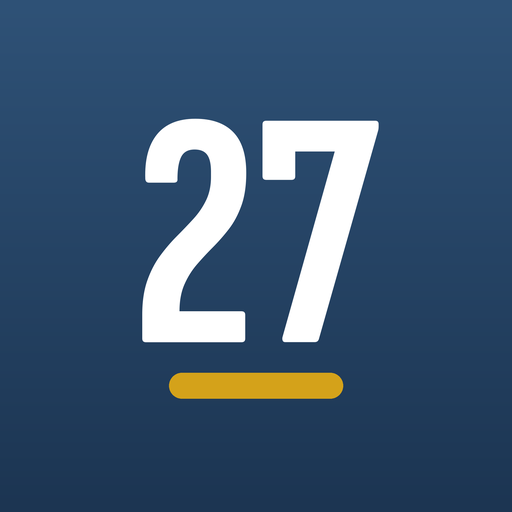
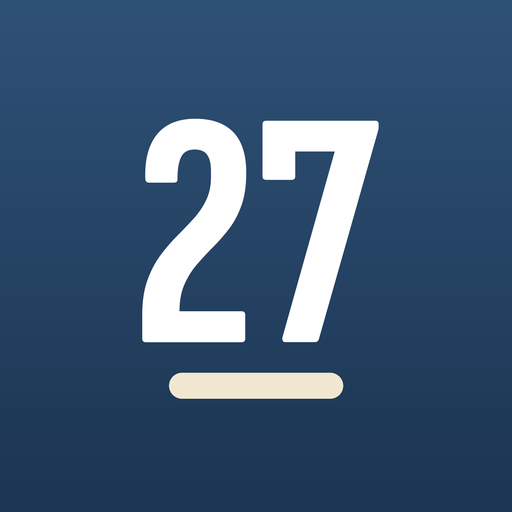
Areia no azul escuro, mostarda no claro e caixa de construção sem amarelo
Claude-Session: https://claude.ai/code/session_01CtpPfmuhznSEQ2vo3kaDov

Changed region(s): [[0.3125, 0.7188, 0.6875, 0.7812]]

diff --git a/index.html b/index.html
@@ -6,7 +6,7 @@
 <title>Meu 2027</title>
 <meta name="description" content="Meu 2027: planejamento com o Claude em 10 dias.">
 <meta name="theme-color" content="#2F5277">
[2 lines of base64/hex data omitted]
 <link rel="apple-touch-icon" href="apple-touch-icon.png">
 <link rel="icon" type="image/png" sizes="32x32" href="favicon-32.png">
 <link rel="icon" href="favicon.ico" sizes="any">
@@ -15,12 +15,12 @@
 <link rel="preconnect" href="https://fonts.googleapis.com">
 <link rel="preconnect" href="https://fonts.gstatic.com" crossorigin>
 <link rel="stylesheet" href="https://fonts.googleapis.com/css2?family=Sofia+Sans+Extra+Condensed:wght@500;600;700&family=Sofia+Sans+Condensed:wght@400;500;600&family=Sofia+Sans:ital,wght@0,400;0,500;0,600;1,400&display=swap">
-<link rel="stylesheet" href="estilo.css?v=20261024s">
+<link rel="stylesheet" href="estilo.css?v=20261024t">
 </head>
 <body>
 <div id="app"><p class="carregando">Carregando</p></div>
 <div class="toast" id="toast" hidden></div>
-<script src="config.js?v=20261024s"></script>
-<script type="module" src="app.js?v=20261024s"></script>
+<script src="config.js?v=20261024t"></script>
+<script type="module" src="app.js?v=20261024t"></script>
 </body>
 </html>

diff --git a/estilo.css b/estilo.css
@@ -13,7 +13,8 @@
   --marca:#2F5277;
   --titulo:#1C3552;
   --mark:#D4A21A;
-  --mostarda-txt:#8F6A06;
+  --mostarda-txt:#D4A21A;
+  --areia:#F1E7D0;
   --banda:#2F5277;
   --banda-2:#1C3552;
   --banda-ink:#FFFFFF;
@@ -21,8 +22,8 @@
   --nivel-baixo:#c0606e;
   --nivel-medio:#d4a21a;
   --nivel-alto:#4f7a5a;
-  --obra:#FFF7E3;
-  --obra-line:#EBD9A8;
+  --obra:#F0F4F9;
+  --obra-line:#D4A21A;
   --display:"Sofia Sans Extra Condensed","Arial Narrow",sans-serif;
   --cond:"Sofia Sans Condensed","Arial Narrow",sans-serif;
   --body:"Sofia Sans",system-ui,sans-serif;
@@ -30,12 +31,12 @@
 }
 @media (prefers-color-scheme:dark){:root:not([data-theme="light"]){
   --bg:#121924;--paper:#1B2433;--ink:#E6EDF6;--muted:#A9B6C7;--line:#2F3D52;--soft:#222D3D;
-  --accent:#8FB2DA;--accent-dark:#C6D9EF;--accent-soft:#233449;--marca:#A9C6E8;--titulo:#DCE8F6;--mark:#E5BE4A;--mostarda-txt:#E5BE4A;--banda:#24425F;--banda-2:#172B40;--banda-ink:#FFFFFF;--ok:#86B592;
-  --nivel-baixo:#D9818E;--nivel-medio:#E5BE4A;--nivel-alto:#86B592;--obra:#2E2818;--obra-line:#5A4C26;color-scheme:dark}}
+  --accent:#8FB2DA;--accent-dark:#C6D9EF;--accent-soft:#233449;--marca:#A9C6E8;--titulo:#DCE8F6;--mark:#E5BE4A;--mostarda-txt:#E5BE4A;--areia:#F1E7D0;--banda:#24425F;--banda-2:#172B40;--banda-ink:#FFFFFF;--ok:#86B592;
+  --nivel-baixo:#D9818E;--nivel-medio:#E5BE4A;--nivel-alto:#86B592;--obra:#222D3D;--obra-line:#E5BE4A;color-scheme:dark}}
 :root[data-theme="dark"]{
   --bg:#121924;--paper:#1B2433;--ink:#E6EDF6;--muted:#A9B6C7;--line:#2F3D52;--soft:#222D3D;
-  --accent:#8FB2DA;--accent-dark:#C6D9EF;--accent-soft:#233449;--marca:#A9C6E8;--titulo:#DCE8F6;--mark:#E5BE4A;--mostarda-txt:#E5BE4A;--banda:#24425F;--banda-2:#172B40;--banda-ink:#FFFFFF;--ok:#86B592;
-  --nivel-baixo:#D9818E;--nivel-medio:#E5BE4A;--nivel-alto:#86B592;--obra:#2E2818;--obra-line:#5A4C26;color-scheme:dark}
+  --accent:#8FB2DA;--accent-dark:#C6D9EF;--accent-soft:#233449;--marca:#A9C6E8;--titulo:#DCE8F6;--mark:#E5BE4A;--mostarda-txt:#E5BE4A;--areia:#F1E7D0;--banda:#24425F;--banda-2:#172B40;--banda-ink:#FFFFFF;--ok:#86B592;
+  --nivel-baixo:#D9818E;--nivel-medio:#E5BE4A;--nivel-alto:#86B592;--obra:#222D3D;--obra-line:#E5BE4A;color-scheme:dark}
 
 *{box-sizing:border-box}
 html,body{margin:0}
@@ -49,16 +50,16 @@ header.top{position:relative;overflow:hidden;display:flex;flex-wrap:wrap;align-i
 header.top::after{content:"27";position:absolute;right:-10px;bottom:-58px;font-family:var(--display);font-weight:700;font-size:260px;line-height:1;color:rgba(255,255,255,.07);pointer-events:none}
 header.top>*{position:relative;z-index:1}
 .brand h1{margin:0;font-family:var(--display);font-weight:700;font-size:clamp(56px,9vw,88px);line-height:.9;color:var(--banda-ink)}
-.sub-marca{margin:8px 0 0;font-family:var(--cond);font-weight:600;text-transform:uppercase;letter-spacing:.14em;font-size:20px;color:var(--mark);display:flex;align-items:center;gap:10px}
-.sub-marca::before{content:"";width:34px;height:3px;border-radius:2px;background:var(--mark)}
+.sub-marca{margin:8px 0 0;font-family:var(--cond);font-weight:600;text-transform:uppercase;letter-spacing:.14em;font-size:20px;color:var(--areia);display:flex;align-items:center;gap:10px}
+.sub-marca::before{content:"";width:34px;height:3px;border-radius:2px;background:var(--areia)}
 .topright{display:flex;align-items:center;gap:16px;flex-wrap:wrap;font-family:var(--cond)}
 .overall{display:flex;align-items:center;gap:10px}
 .overall .bar{width:160px;height:10px;border-radius:99px;background:rgba(255,255,255,.22);overflow:hidden}
-.overall .bar i{display:block;height:100%;background:var(--mark);width:0;transition:width .3s}
+.overall .bar i{display:block;height:100%;background:var(--areia);width:0;transition:width .3s}
 .overall b{font-variant-numeric:tabular-nums;font-size:22px}
 .status{font-size:21px;color:rgba(255,255,255,.8)}
 .linkbtn{all:unset;cursor:pointer;font-family:var(--cond);font-size:19px;color:var(--banda-ink);text-decoration:underline;text-underline-offset:3px;font-size:21px}
-.linkbtn:focus-visible{outline:2px solid var(--mark);outline-offset:2px}
+.linkbtn:focus-visible{outline:2px solid var(--areia);outline-offset:2px}
 .aviso{background:var(--accent-soft);border-left:5px solid var(--mark);border-radius:10px;padding:12px 16px;font-family:var(--cond);font-size:23px;margin:0 0 18px}
 
 .layout{display:grid;grid-template-columns:270px minmax(0,1fr);gap:26px;align-items:start}
@@ -69,8 +70,8 @@ nav.trail{position:sticky;top:calc(16px + env(safe-area-inset-top,0px));display:
 .daybtn:focus-visible{outline:2px solid var(--accent);outline-offset:1px}
 .daybtn .n{font-family:var(--display);font-weight:700;font-size:26px;color:var(--muted);font-variant-numeric:tabular-nums}
 .daybtn .st{font-size:19px;color:var(--muted)}
-.daybtn.on{background:var(--banda);box-shadow:inset 4px 0 0 var(--mark)}
-.daybtn.on .n{color:var(--mark)}
+.daybtn.on{background:var(--banda);box-shadow:inset 4px 0 0 var(--areia)}
+.daybtn.on .n{color:var(--areia)}
 .daybtn.on .t,.daybtn.on .st{color:#fff}
 .daybtn.final .n{color:var(--mark)}
 .daybtn.done .st{color:var(--ok);font-weight:600}
@@ -97,15 +98,16 @@ textarea:focus,input:focus,select:focus{outline:2px solid var(--accent);outline-
 .video{position:relative;aspect-ratio:16/9;width:100%;border-radius:14px;overflow:hidden;background:var(--banda-2);margin:0 0 30px;box-shadow:0 10px 30px -18px rgba(28,53,82,.6)}
 .video iframe{position:absolute;inset:0;width:100%;height:100%;border:0}
 .video.vazio{display:grid;place-items:center;background:linear-gradient(135deg,var(--banda) 0%,var(--banda-2) 100%)}
-.video.vazio::before{content:"";position:absolute;width:76px;height:76px;border-radius:50%;background:var(--mark);top:calc(50% - 62px);left:calc(50% - 38px)}
+.video.vazio::before{content:"";position:absolute;width:76px;height:76px;border-radius:50%;background:var(--areia);top:calc(50% - 62px);left:calc(50% - 38px)}
 .video.vazio::after{content:"";position:absolute;top:calc(50% - 40px);left:calc(50% - 8px);border-style:solid;border-width:16px 0 16px 26px;border-color:transparent transparent transparent var(--banda-2)}
 .video.vazio p{position:relative;margin:96px 20px 0;max-width:46ch;text-align:center;font-family:var(--cond);font-size:21px;color:rgba(255,255,255,.88)}
 
 /* espaço de construção: título e link do vídeo */
-.obra{background:var(--obra);border:1px dashed var(--obra-line);border-radius:12px;padding:18px 20px;margin:0 0 26px}
+.obra{background:var(--obra);border:2px dashed var(--obra-line);border-radius:12px;padding:18px 20px;margin:0 0 26px}
 .obra h3{margin:0 0 2px;font-family:var(--display);font-weight:600;font-size:30px}
 .obra .quem{font-family:var(--cond);font-size:21px;color:var(--muted);margin:0 0 10px}
 .obra textarea{background:var(--paper);min-height:140px}
+.obra input[type=text]{background:var(--paper)}
 .obra .lab>span{font-family:var(--display);font-weight:600;font-size:24px}
 .obra .salvo{font-family:var(--cond);font-size:20px;color:var(--muted)}
 .passos{display:grid;grid-template-columns:repeat(auto-fit,minmax(280px,1fr));gap:16px;margin-top:10px}
@@ -248,8 +250,8 @@ textarea.pnome:hover{border-color:var(--line)}
 .login .sub-marca{justify-content:center;margin-bottom:6px}
 .login p{margin:12px 0 22px}
 .login .note{color:rgba(255,255,255,.8)}
-.login button.btn.primary{background:var(--mark);border-color:var(--mark);color:#1C3552;font-weight:600}
-.login button.btn.primary:hover{background:#E5BE4A;border-color:#E5BE4A}
+.login button.btn.primary{background:var(--areia);border-color:var(--areia);color:#1C3552;font-weight:600}
+.login button.btn.primary:hover{background:#fff;border-color:#fff}
 
 .toast{position:fixed;left:50%;bottom:calc(20px + env(safe-area-inset-bottom,0px));transform:translateX(-50%);background:var(--ink);color:var(--paper);font-family:var(--cond);padding:10px 18px;border-radius:8px;font-size:22px;z-index:9;max-width:calc(100% - 32px)}
 
@@ -263,7 +265,7 @@ textarea.pnome:hover{border-color:var(--line)}
   nav.trail{position:static;flex-direction:row;overflow-x:auto;gap:4px;padding-bottom:6px}
   .daybtn{grid-template-columns:auto;width:auto;flex:none;justify-items:center;padding:8px 14px}
   .daybtn .t,.daybtn .st{display:none}
-  .daybtn.on{box-shadow:inset 0 -4px 0 var(--mark)}
+  .daybtn.on{box-shadow:inset 0 -4px 0 var(--areia)}
   header.top::after{font-size:180px;bottom:-40px}
   .sub-marca{font-size:18px;letter-spacing:.08em}
   .sub-marca::before{width:22px}
